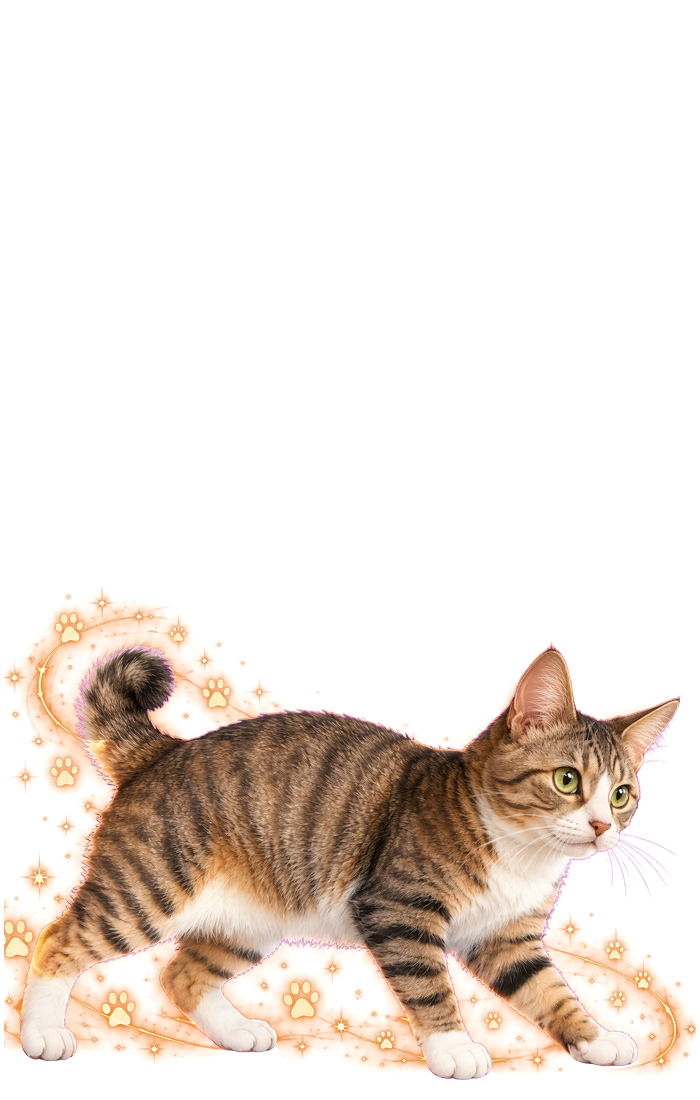
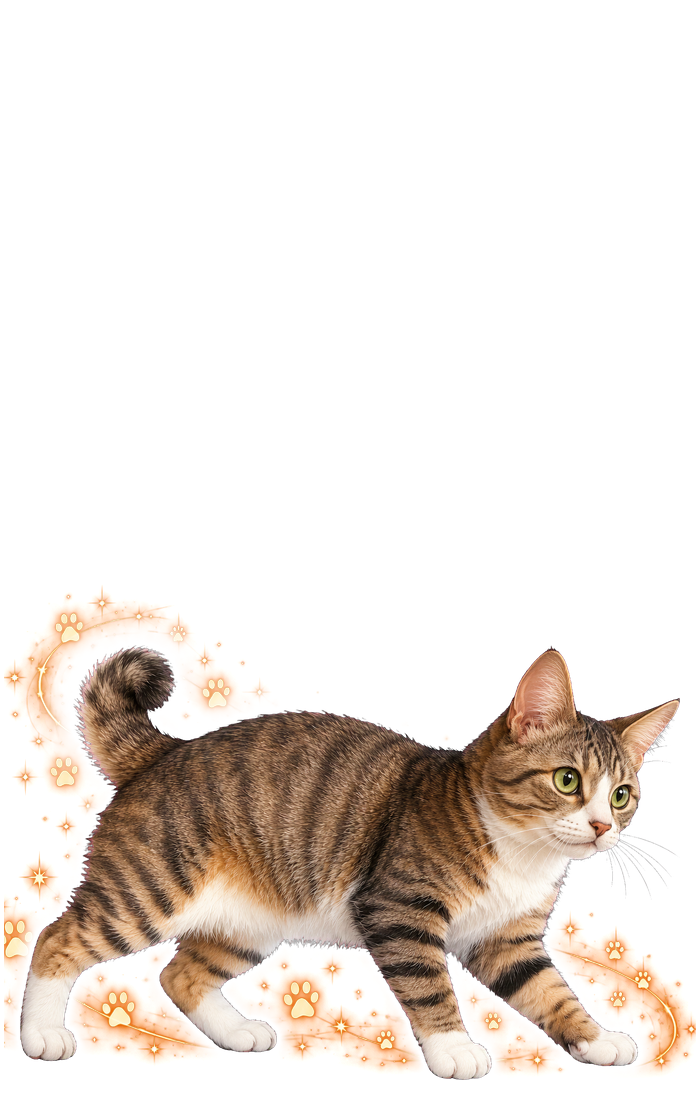
立ち絵14人の追加修正: 双剣士の手(ポーズ変更)・細部点検・キャラを引き立てるエフェクト
- 双剣士: 2つの手がどちらも右手に見えていた。手だけの描き直しを3回試したが直らず、マスターの了解のうえで逆手のポーズへ変更(顔・衣装・スカーフ・剣の意匠は維持、カードとも別の形)。エフェクトも新しいポーズ用に描き足し
- 14人の点検: 弓使いに弦が無かった → 人物の後ろを通る弦を描き足し(bowstring.py)。お嬢様/竜人/黒剣士/ルカ/双剣士/巫女/格闘家の縁や毛先に残っていた切り抜きの色かぶりを除去
- エフェクト: キャラの上には重ねず、輪郭のすぐ外は薄く・離れるほど強く・顔の周りはさらに控えめに(Tools/portrait/fxmerge2.py)。魔法使い/巫女/竜人は実画面で見て、輪郭の外に薄い暗い幕を足し、さらに離した
- 実際のキャラ選択画面(横 1280x720 / 縦 720x1280)で14人を確認。比較画像と点検表は Docs/Fix12_2026-10-28/portrait2/

diff --git a/Tools/portrait/fxmerge2.py b/Tools/portrait/fxmerge2.py
@@ -1,0 +1,114 @@
+# エフェクトの重ね方 第2版(2026-10-28、マスターの「キャラ本人が主役としてはっきり見える仕上がりに」)
+#  python fxmerge2.py <キャラ(透明背景, 700x1100)> <エステルのエフェクト入り(1024x1536)> <出力.png> [--gain 1.0] [--near 26] [--head 1.6]
+#  fxmerge.py との違い:
+#  ・キャラの中には一切描かない(fxmerge は刃の光などを max で足していた → 体や武器の形が見分けにくくなっていた)
+#    = 体を横切っていた光の帯や粒は、体の後ろを通るように見える
+#  ・輪郭のすぐ外は薄く、離れるほど元の強さ(--near px で元の強さに戻る)。輪郭の線が光に溶けない
+#  ・顔の周り(人物の上 22% の高さ)は離す距離を --head 倍にして、さらに濃さを 0.7 倍
+#  ・離れた所の光は少しだけ強める(派手さは外側で出す)。--gain で全体の濃さ
+#  ・位置合わせは fxmerge と同じ(黒背景に置いた元の絵を作り直して、縮尺と位置を探す)
+import argparse
+import numpy as np
+from PIL import Image
+from scipy import ndimage
+
+ap = argparse.ArgumentParser()
+ap.add_argument("char"); ap.add_argument("fx"); ap.add_argument("out")
+ap.add_argument("--gain", type=float, default=1.0)
+ap.add_argument("--near", type=float, default=26.0)
+ap.add_argument("--head", type=float, default=1.6)
+ap.add_argument("--clear", type=float, default=3.0)   # 輪郭からこの距離までは完全に消す
+ap.add_argument("--far", type=float, default=1.12)    # 離れた所の強め
+ap.add_argument("--despill", default="none")          # g / m / b: 縁に残った緑/マゼンタ/青の色かぶりを取る
+ap.add_argument("--despillAll", action="store_true")
+ap.add_argument("--cap", type=float, default=1.0)     # エフェクトの不透明度の上限(画面いっぱいの光を少し透かす)
+ap.add_argument("--halo", type=float, default=0.0)    # 輪郭の外の暗い幕の濃さ(0 = なし)
+ap.add_argument("--haloW", type=float, default=14.0)  # その幅(px)
+a = ap.parse_args()
+
+ch = Image.open(a.char).convert("RGBA")
+W, H = ch.size
+fx = Image.open(a.fx).convert("RGB")
+FW, FH = fx.size
+# 黒背景に置いた元(fxmerge と同じ置き方: 高さを合わせて左右中央)
+s = FH / H; nw = int(W * s); ox = (FW - nw) // 2
+src = Image.new("RGB", (FW, FH))
+src.paste(ch.resize((nw, FH), Image.LANCZOS), (ox, 0), ch.resize((nw, FH), Image.LANCZOS))
+
+def _gray(im, sc): return np.array(im.convert("L").resize((max(1, int(im.width * sc)), max(1, int(im.height * sc))))).astype(float)
+def _warp(im, k, dx, dy):
+    cx, cy = im.width / 2, im.height / 2
+    return im.transform(im.size, Image.AFFINE, (k, 0, cx - k * cx + dx, 0, k, cy - k * cy + dy), Image.BICUBIC)
+def _search(scale, ks, dxs, dys, best):
+    fs = fx.resize((max(1, int(fx.width * scale)), max(1, int(fx.height * scale))))
+    g0 = _gray(src, scale); m = g0 > 25
+    for k in ks:
+        for dx in dxs:
+            for dy in dys:
+                g = np.array(_warp(fs, k, dx * scale, dy * scale).convert("L")).astype(float)
+                e = np.abs(g - g0)[m].mean()
+                if e < best[0]: best = (e, k, dx, dy)
+    return best
+best = (1e9, 1.0, 0.0, 0.0)
+best = _search(0.0625, np.arange(0.88, 1.1201, 0.02), range(-160, 161, 16), range(-160, 161, 16), best)
+_, k0, x0, y0 = best
+best = _search(0.125, np.arange(k0 - 0.02, k0 + 0.0201, 0.01), np.arange(x0 - 16, x0 + 16.1, 8), np.arange(y0 - 16, y0 + 16.1, 8), best)
+_, k0, x0, y0 = best
+best = _search(0.25, np.arange(k0 - 0.01, k0 + 0.0101, 0.0025), np.arange(x0 - 8, x0 + 8.1, 2), np.arange(y0 - 8, y0 + 8.1, 2), best)
+_, k0, x0, y0 = best
+best = _search(0.5, np.arange(k0 - 0.0025, k0 + 0.00251, 0.00125), np.arange(x0 - 2, x0 + 2.1, 1), np.arange(y0 - 2, y0 + 2.1, 1), best)
+fx = _warp(fx, best[1], best[2], best[3])
+print(f"align: scale {best[1]:.4f} shift ({best[2]:.1f},{best[3]:.1f}) err {best[0]:.1f}")
+
+fxs = np.array(fx.crop((ox, 0, ox + nw, FH)).resize((W, H), Image.LANCZOS)).astype(float)
+C = np.array(ch).astype(float)
+al = C[:, :, 3] / 255.0
+# 縁の色かぶり(切り抜いた時の背景色の照り返し)を、輪郭の内側 4px の帯だけで抑える
+if a.despill != "none":
+    band = (al > 0.02) & ~ndimage.binary_erosion(al > 0.5, iterations=4)
+    if a.despillAll: band = al > 0.02          # 緑/マゼンタを使わない衣装なら絵全体(細い髪の毛先は帯より内側まで色かぶりしている)
+    for mode in a.despill.split("+"):            # 例: g+olive / m+b
+        r, g, b = C[:, :, 0].copy(), C[:, :, 1].copy(), C[:, :, 2].copy()
+        if mode == "g":
+            lim = np.maximum(r, b); C[:, :, 1] = np.where(band & (g > lim), lim, g)
+        elif mode == "m":
+            over = np.clip(np.minimum(r, b) - g, 0, None) * band
+            C[:, :, 0] -= over; C[:, :, 2] -= over
+        elif mode == "b":
+            lim = np.maximum(r, g); C[:, :, 2] = np.where(band & (b > lim), lim, b)
+        elif mode == "olive":                     # 髪の線に残った暗い黄緑(緑の照り返し)を髪の色(赤み)へ。明るい金髪や白は触らない
+            lum = r * 0.3 + g * 0.59 + b * 0.11
+            olive = band & (g > r * 0.9) & (b < g * 0.8) & (lum < 170)
+            C[:, :, 1] = np.where(olive, np.minimum(g, r * 0.85), g)
+body = al > 0.35
+dist = ndimage.distance_transform_edt(~body)          # 輪郭からの距離(外側)
+bb = ch.getbbox(); headY = int(bb[1] + (bb[3] - bb[1]) * 0.22)
+# 顔の周り: 頭の高さの中の人物の画素からの距離で、離す距離を広げる
+headMask = body.copy(); headMask[headY:, :] = False
+dHead = ndimage.distance_transform_edt(~headMask) if headMask.any() else np.full(body.shape, 1e9)
+
+def ramp(d, lo, hi): return np.clip((d - lo) / max(1e-3, hi - lo), 0, 1)
+w = ramp(dist, a.clear, a.near) ** 1.3
+w = w * (1 + (a.far - 1) * ramp(dist, a.near * 1.5, a.near * 4))
+hr = ramp(dHead, a.clear * a.head, a.near * a.head) ** 1.3
+hf = 0.7 + 0.3 * ramp(dHead, a.near * a.head, a.near * a.head * 2.5)
+w = np.where(dHead < a.near * a.head * 2.5, np.minimum(w, hr * hf), w)
+# エフェクトの取り出し(黒からの明るさ → 不透明度)
+lum = fxs.max(-1) / 255.0
+ea = np.clip((lum - 0.04) * 1.15, 0, 1)
+ecol = np.where(ea[..., None] > 1e-3, np.clip(fxs / np.maximum(ea[..., None], 1e-3), 0, 255), 0)
+ea = np.clip(ea * w * a.gain, 0, a.cap) * np.clip(1 - al * 1.0, 0, 1)
+# 縁の影(--halo): 輪郭のすぐ外に暗い幕を敷き、同じ色のエフェクト(赤い体と赤い炎など)から輪郭を浮かせる
+if a.halo > 0:
+    ha = a.halo * (1 - ramp(dist, 1.0, a.haloW)) * (dist > 0)
+    shade = np.array([10.0, 10.0, 16.0])
+    ecol = (ecol * ea[..., None] + shade * ha[..., None] * (1 - ea[..., None])) / np.maximum((ea + ha * (1 - ea))[..., None], 1e-4)
+    ea = ea + ha * (1 - ea)
+
+rgb = C[:, :, :3] * al[..., None] + ecol * ea[..., None] * (1 - al[..., None])
+A = al + ea * (1 - al)
+rgb = np.where(A[..., None] > 1e-4, rgb / np.maximum(A[..., None], 1e-4), 0)
+res = np.dstack([np.clip(rgb, 0, 255), np.clip(A * 255, 0, 255)]).astype(np.uint8)
+res[:, :4, 3] = 0; res[:, -4:, 3] = 0; res[:4, :, 3] = 0; res[-4:, :, 3] = 0
+Image.fromarray(res, "RGBA").save(a.out)
+print(f"merged: head above y={headY}, effect coverage {float((ea > 0.1).mean()) * 100:.1f}%")

diff --git a/Tools/portrait/handpatch_dual_blade.py b/Tools/portrait/handpatch_dual_blade.py
@@ -1,0 +1,19 @@
+# 双剣士(2026-10-28): エステルが描き直した手(hands_v2)だけを元の絵へ移す(手以外の画素は元のまま)
+import numpy as np
+from PIL import Image
+from scipy import ndimage
+a = np.array(Image.open("db_pose_v2.png").convert("RGB")).astype(float)
+b = np.array(Image.open("f28_dual_blade_hands_v2.png").convert("RGB")).astype(float)
+H, W = a.shape[:2]; yy, xx = np.mgrid[:H, :W]
+m = np.zeros((H, W))
+for cx, cy, rx, ry in ((118, 398, 50, 46), (474, 680, 54, 38)):
+    m = np.maximum(m, (((xx - cx) / rx) ** 2 + ((yy - cy) / ry) ** 2 < 1).astype(float))
+m[(xx > 486) & (yy > 700)] = 0            # 拳の下に出た親指のようなかたまりは使わない(元の帯/肌のまま)
+m = ndimage.gaussian_filter(m, 3)
+o = b * m[..., None] + a * (1 - m[..., None])
+Image.fromarray(o.astype(np.uint8)).save("db_pose_v3.png")
+r1 = (40, 300, 260, 500); r2 = (380, 580, 600, 760)
+S = Image.new("RGB", (880, 800)); A = Image.fromarray(a.astype(np.uint8)); O = Image.fromarray(o.astype(np.uint8))
+for j, im in enumerate([A, O]):
+    S.paste(im.crop(r1).resize((440, 400)), (440 * j, 0)); S.paste(im.crop(r2).resize((440, 360)), (440 * j, 420))
+S.save("hv3z.jpg", quality=92)

diff --git a/Tools/portrait/bowstring.py b/Tools/portrait/bowstring.py
@@ -1,0 +1,14 @@
+# 弓使いの立ち絵に弦を描く(弓の上端 → 矢筈(引き手) → 弓の下端)。弦は人物の後ろを通す(顔・体を横切らない)
+#  4倍で描いて縮める(なめらかな線)
+import sys
+from PIL import Image, ImageDraw
+src, out = sys.argv[1], sys.argv[2]
+top, nock, bot = (411, 219), (281, 521), (642, 707)
+im = Image.open(src).convert("RGBA"); W, H = im.size; S = 4
+lay = Image.new("RGBA", (W * S, H * S), (0, 0, 0, 0)); d = ImageDraw.Draw(lay)
+for p, q in ((top, nock), (nock, bot)):
+    d.line([(p[0] * S, p[1] * S), (q[0] * S, q[1] * S)], fill=(30, 24, 20, 190), width=int(2.6 * S))   # 縁
+    d.line([(p[0] * S, p[1] * S), (q[0] * S, q[1] * S)], fill=(226, 214, 186, 240), width=int(1.3 * S))  # 弦
+lay = lay.resize((W, H), Image.LANCZOS)
+lay.alpha_composite(im)     # 人物を弦の上に
+lay.save(out)

diff --git a/Docs/Fix12_2026-10-28/portrait2/README.md b/Docs/Fix12_2026-10-28/portrait2/README.md
@@ -1,0 +1,110 @@
+# 立ち絵の追加修正(2026-10-28 午後)
+
+マスターの依頼「双剣士の手 + 全14人の細部点検」「キャラを引き立てるエフェクトへ調整」への対応。
+対象: `Unity/2ndAction/Assets/Art/UI/Characters/<id>_main.png`(キャラ選択の立ち絵、14人)。カードの絵は変えていない。
+
+## 1. 双剣士の手 / 14人の細部点検
+
+### 双剣士の手(修正済み: ポーズを変更)
+- 元の絵では、2つの手がどちらも右手に見えていた。
+  - 原因: 刃を右へ向けて握る手で、曲げた指の前面がこちらを向いている形は、右手の形になる。
+  - 胸の前の手は、本来は手の甲が見えるべき手だった。
+- 今のポーズのまま、エステルに手だけの描き直しを3回頼んだ。
+  - 胸の前の手は毎回ほぼ同じ拳にしかならず、手の甲を描かせることはできなかった。
+  - 手だけを移す方法では、直しきれなかった。
+- マスターの了解(「別のポージングに変えてもいい」)を受けて、ポーズを変えた。
+  - X字の交差: 両腕が1つの拳にまとまり、片方の手が消えた → 不採用
+  - 両手を離す構え: 親指が描かれず、左右の判別が弱かった → 不採用
+  - **逆手で両手に1本ずつ持つ構え**: 採用。両手が鏡写しの握りになり、左右の違いが見て分かる。
+    - 手前の手は顔の前、奥の手は腰の横に構える。
+    - 顔・髪・衣装・スカーフ・剣の意匠はそのまま。カードの絵(走りながら低く構える)とも違う形。
+- エフェクトは、新しいポーズに合わせてエステルに描き足してもらった(`f28_fx_dual_blade_v5.png`)。2. と同じ方法で重ねている。
+- 比較画像:
+  - `dual_blade_hands_before_after.jpg`: 上が元の2つの手、下が新しい2つの手
+  - `dual_blade_full_before_after.jpg`: 全身
+
+### 14人の点検の結果
+エフェクトを付ける前の元絵を、実寸と拡大で確認した。手の拡大一覧は `hands_check_all.jpg`。
+
+| キャラ | 手・指 | 関節・足 | 武器 | その他 | 対応 |
+|---|---|---|---|---|---|
+| 黒剣士 | 問題なし | 問題なし | 問題なし | 輪郭に緑のにじみ(切り抜きの背景色) | にじみを除去 |
+| 双剣士 | **左右とも右手に見えた** | 問題なし | 問題なし | 縁にマゼンタのにじみ | ポーズを変えて手を修正・にじみを除去 |
+| 拳銃士 | 問題なし | 問題なし | 問題なし | — | — |
+| 竜騎士 | 問題なし | 問題なし | 槍先の曲がりは 10-28 午前に修正済み(その状態を元絵にした) | — | — |
+| 弓使い | 問題なし | 問題なし | **弓に弦が無かった** | — | 弦を描き足した(人物の後ろを通す。顔は横切らない) |
+| 魔法使い | 問題なし | 問題なし | 問題なし | — | — |
+| 格闘家 | 問題なし | 問題なし | 問題なし | 縁にわずかなマゼンタ | にじみを除去 |
+| 忍者 | 問題なし | 問題なし | 問題なし | — | — |
+| お嬢様 | 問題なし | 問題なし | 問題なし | **髪の毛先に緑の線が残っていた** | にじみを除去(暗い黄緑だけを髪の色へ寄せた) |
+| 巫女 | 問題なし | 問題なし | 問題なし | 縁にわずかなマゼンタ | にじみを除去 |
+| 吸血鬼 | 問題なし | 問題なし | 問題なし | — | — |
+| 竜人 | 問題なし(竜の爪は意図した形) | 問題なし | — | 髪に緑の線 | にじみを除去 |
+| ルカ(猫) | — | 問題なし | — | 輪郭に紫のにじみ | にじみを除去 |
+| ペンタ | デフォルメ(意図どおり) | デフォルメ | — | 触角の軸の色が左右で違う(黒青/茶) | 意図したデザインの可能性があるため、そのまま |
+
+- エフェクトが体の一部に見えていた箇所(体を横切る光の帯・刃の上の光・拳の炎の芯など)は、2. の作り直しですべて無くなった。
+- にじみの比較画像: `fringe_before_after.jpg`
+- 弦の比較画像: `archer_string_before_after.jpg`
+
+## 2. キャラを引き立てるエフェクト(調整済み)
+新しく `Tools/portrait/fxmerge2.py` を作り、14人すべてのエフェクトを同じエステルのエフェクト絵から重ね直した。新しく描かせた絵はない。
+
+1. キャラの上には一切重ねない。
+   - 以前の `fxmerge.py` は、体の中も明るい方の色を採っていた。そのため刃や体の上に光の帯が乗り、輪郭が見えにくかった。
+   - 体を横切っていた光は、体の後ろを通っているように見える。
+2. 輪郭のすぐ外は濃さを抑えた。
+   - 輪郭から 3px までは無し。20px で元の強さに戻る。
+   - 輪郭の線が光に溶けない。
+3. 顔の周りはさらに控えめにした。
+   - 頭の高さでは、離す距離を 1.6 倍にした。
+   - 近くの濃さは 0.7 倍にした。
+4. 離れた所は強めた。
+   - 全体の濃さは 1.2 倍。
+   - 輪郭から 30〜80px より外は、さらに最大 1.25 倍。
+   - 派手さは背後と外側で出す。
+
+全体を一律に薄くしたのではなく、近くは抑え、遠くは強めている。
+
+### 魔法使い・巫女・竜人(マスターの回答⑤)
+実際のキャラ選択画面の大きさで見ると、この3人はまだエフェクトが画面を埋めていた。竜人は特に、赤い体と赤い炎が溶け合っていた。そこで、この3人だけさらに次のように調整した。
+
+- 輪郭のすぐ外に、薄い暗い幕を敷いた(`--halo`、幅14px)。濃さは魔法使い・巫女が0.5、竜人が0.7。
+  - 同じ色の炎の中でも輪郭が浮く。
+- 体から離す距離を 30px、顔の周りでは2倍にした。
+- エフェクトの濃さの上限を 0.85 にした(画面いっぱいの光を少し透かす)。
+
+派手さは外側の光で残している。
+
+- 比較画像: `fx_mage_miko_dragonkin.jpg`
+- 実画面: `onscreen_dualblade_mage_miko_dragonkin.jpg`(左4枚 = 横、右4枚 = 縦)、`onscreen_cs_land_14.jpg` / `onscreen_cs_port_14.jpg`(14人)
+- 作り直す時のコマンド:
+  ```
+  fxmerge2.py ... --near 30 --head 2.0 --gain 1.0 --far 1.2 --cap 0.85 --halo 0.5 (竜人は --gain 0.95 --halo 0.7)
+  ```
+
+- 比較画像: `fx14_before_after.jpg`(左 = 今朝の版 / 右 = 今回)
+- キャラ選択の実画面(縦・横)での確認: 下の「実画面」の節
+
+## 元データ
+すべて `C:/GameProject/ArtSource_portrait_2026-10-28/` に置いた。
+
+- `fx1_adopted/`: 今朝採用した版(戻す時はこれをコピー)
+- `base_fx2/`: 今回の元絵
+  - エフェクト前、にじみ除去前、弓の弦を描き足した後の状態。
+  - 双剣士は新しいポーズの切り抜き。
+  - 弦の無い版、元のポーズの版、手だけを移した不採用の版も一緒に置いた。
+- `generated/`: エステルの絵
+  - `f28_dual_blade_hands_v1〜v3.png`: 手だけの描き直し
+  - `f28_dual_blade_pose_v3/v4/v4b/v5.png`: ポーズの案(v5 を採用)
+  - `f28_fx_dual_blade_v5.png`: v5 用のエフェクト
+
+作り直す時のコマンド:
+```
+python Tools/portrait/fxmerge2.py base_fx2/<id>_main.png generated/f28_fx_<id>.png <出力> --near 20 --gain 1.2 --far 1.25 [--despill g+olive --despillAll]
+```
+
+にじみ除去の指定(--despill):
+- 黒剣士・お嬢様・竜人: `g+olive --despillAll`
+- ルカ: `m+b --despillAll`
+- 双剣士・巫女・格闘家: `m`(輪郭の帯だけ)
